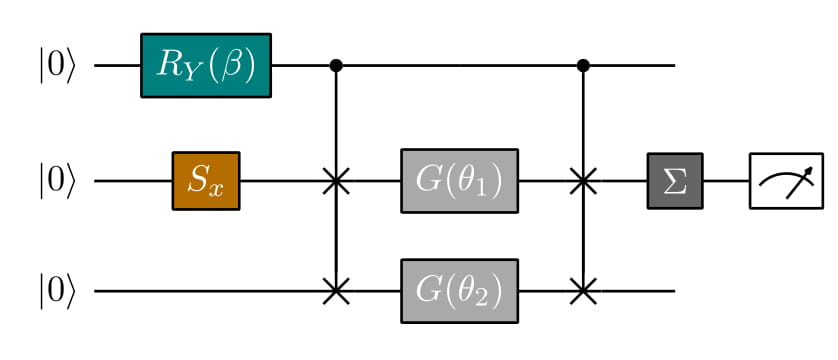
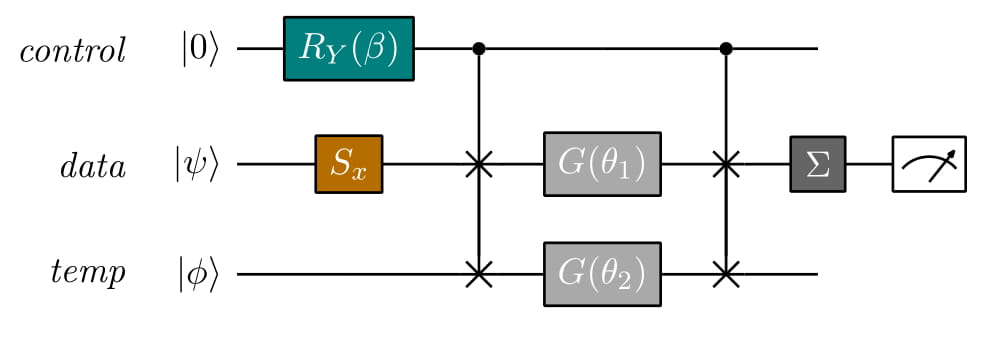
README update

Changed region(s): [[0.0, 0.0288, 0.9928, 0.9222]]

diff --git a/README.md b/README.md
@@ -13,6 +13,37 @@ perform linear combinations in superposition and discuss adaptations to classifi
 theoretical investigation, we also provide practical implementations using various simulation environments. Finally, we
  test the proposed algorithm on synthetic data exploiting both simulators and real quantum devices.
 
+# Quantum Circuit
+
+
+Intuitively, a qSLP can be implemented into a quantum computer in two steps. 
+Firstly, we generate different linear operations in superposition, each one having different parameters 
+<img src="https://render.githubusercontent.com/render/math?math=\theta_j">, 
+entangled with a control register. 
+Secondly, we propagate the activation function to all the linear combinations in superposition. 
+Notice that,  thanks this approach, instead of executing a given activation function for each hidden 
+neuron, we need only one application to obtain the output of all the neurons in the hidden layer.
+To this end, three quantum registers are necessary:  
+*control*, *data* and *temp*. 
+The latter is responsible for generating the linear combinations of the input data in superposition.
+ Also, it can be in any arbitrary state, possibly even unknown.  
+
+<p align="center">
+  <img width="500" height="200" src="qSLP.jpg">
+</p>
+
+The circuit above leads to the following quantum state: 
+<img src="https://latex.codecogs.com/svg.latex?\Large&space;x=\frac{1}{\sqrt{E}}\Big(\beta_1|0\rangle|\sigma_{hid}\rangle \big[ L(x; \theta_1) \big] |\phi\rangle + \beta_2 |1\rangle |\sigma_{hid}\rangle \big[ L(x; \theta_2) \big]|\phi\rangle\Big)" />
+
+where the two linear operations, <img src="https://render.githubusercontent.com/render/math?math=L(\cdot)">,
+are put 
+through the same activation function, <img src="https://render.githubusercontent.com/render/math?math=\sigma_\text{hid}">, 
+represented by the gate <img src="https://render.githubusercontent.com/render/math?math=\Sigma">. 
+Each output is weighed by the parameters of the control qubit $(\beta)$, i.e. the coefficients attached to the hidden neurons in the linear combination that produces the output of the NN.
+This is exactly the quantum version of the two-neurons classical SLP.
+
+Thus, the quantum circuit described above allows reproducing a classical Neural Network with one hidden layer on a quantum computer. 
+
 # Usage
 The code implements all the experiments regarding the implementation of the quantum Single Layer Perceptron using 
 two frameworks for quantum computation:
@@ -48,7 +79,4 @@ Some of the functions for optimisation are taken from https://pennylane.ai/qml/d
 
 For any issues or questions related to the code, open a new git issue or send a mail to antonio.macaluso2@unibo.it
 
-<p align="center">
-  <img width="500" height="200" src="qSLP.jpg">
-</p>
 
